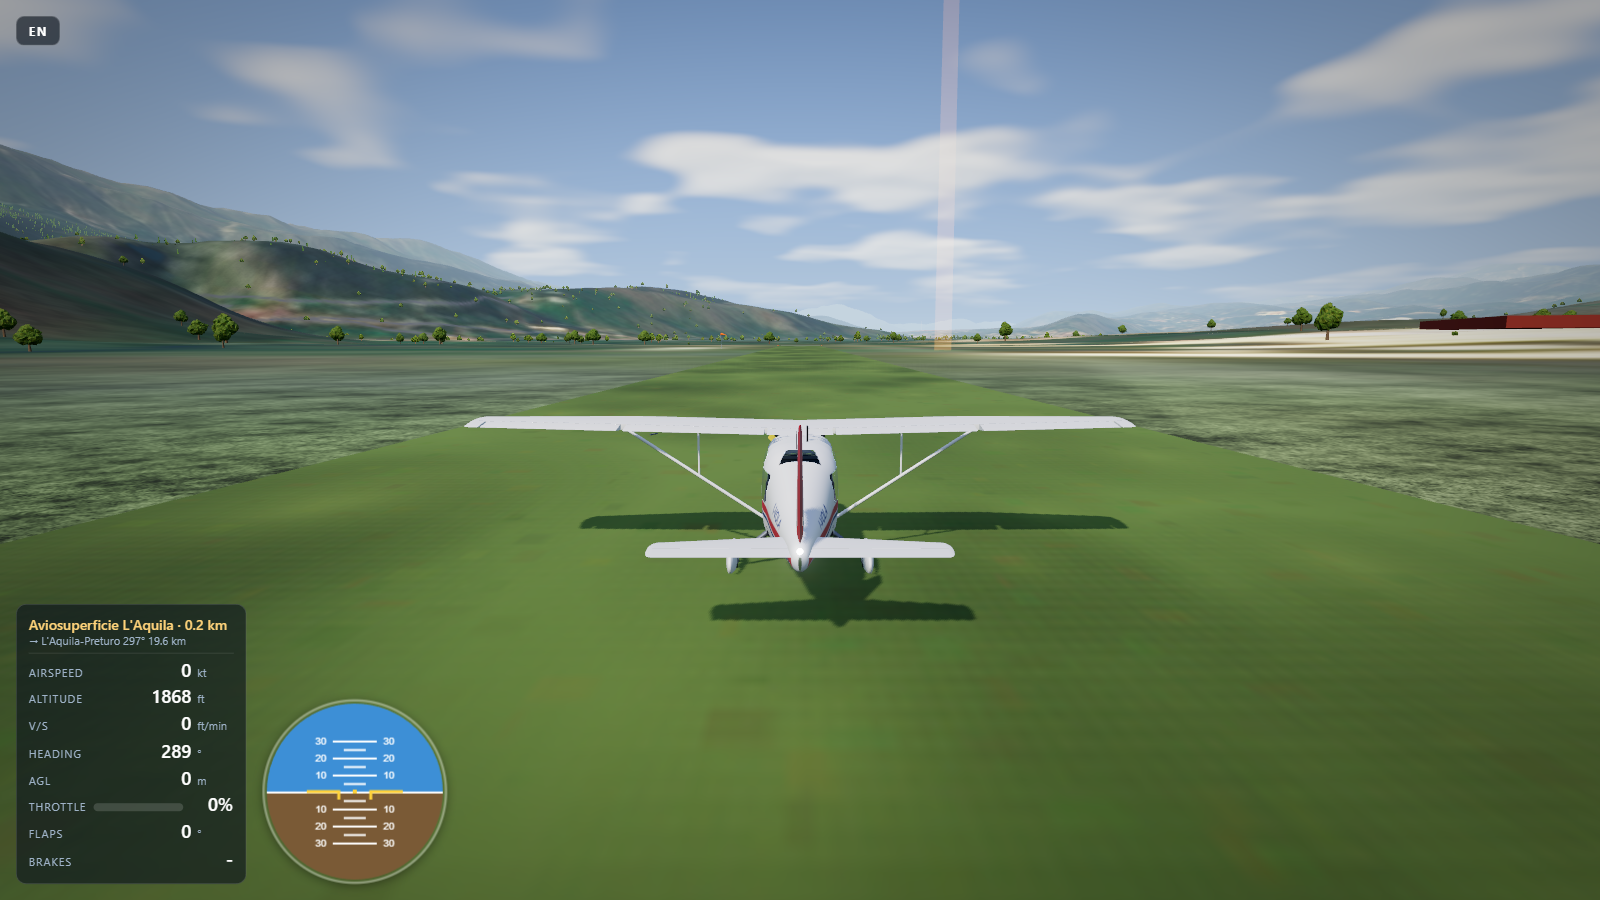
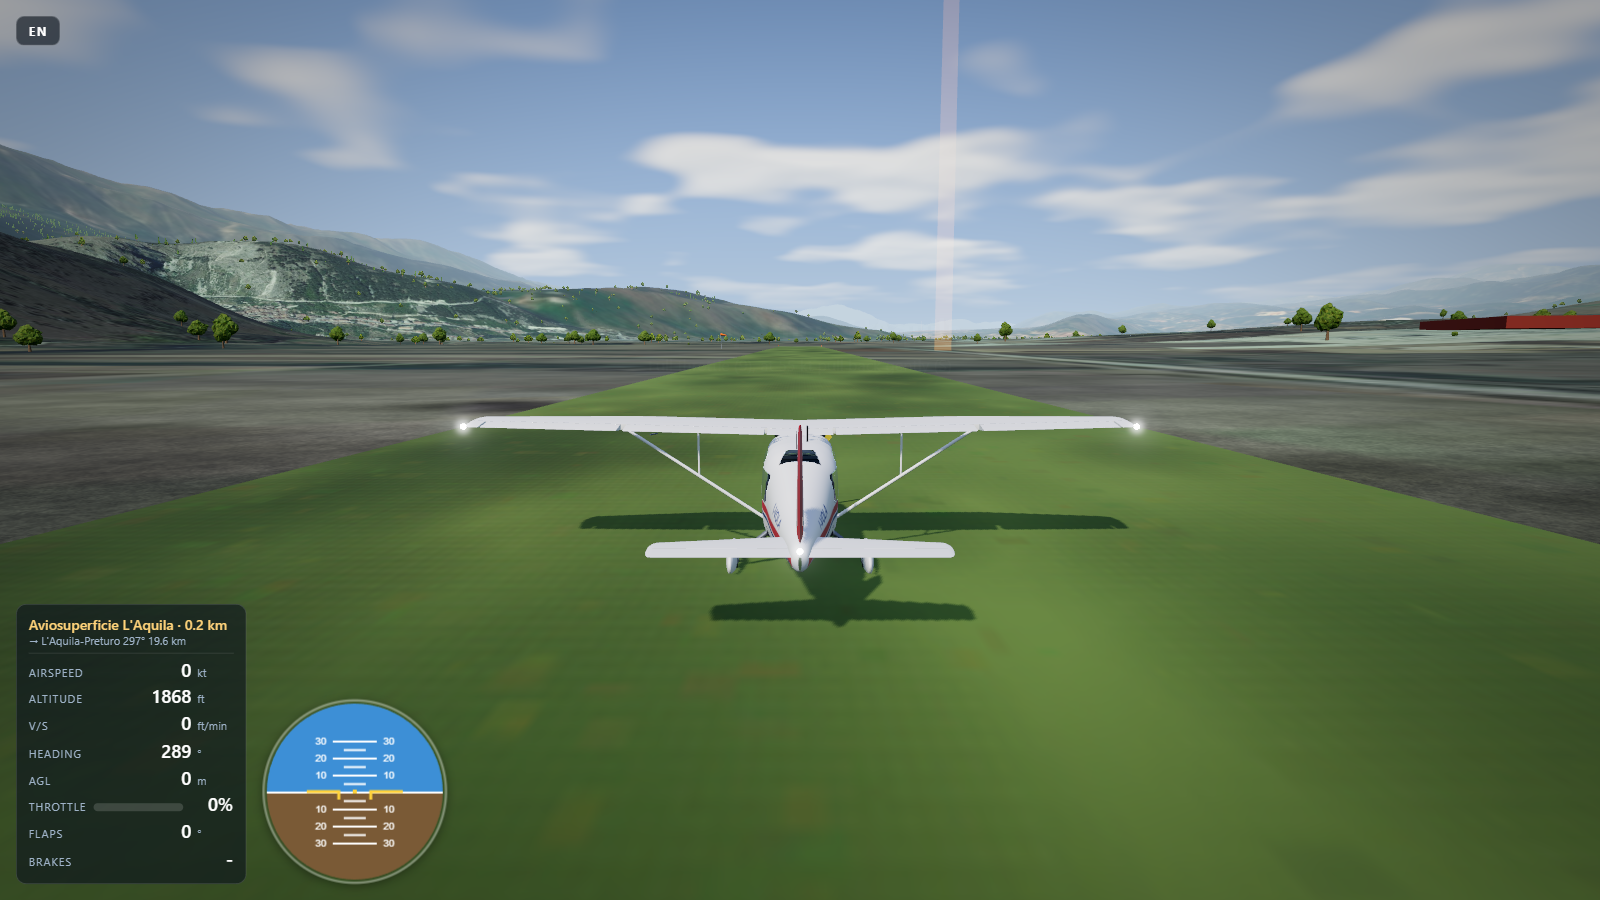
v0.7.0: ortofoto AGEA 2012 ad alta risoluzione attorno ai due aeroporti

diff --git a/src/world.js b/src/world.js
@@ -109,9 +109,9 @@ const loadImage = (name) => new Promise((res, rej) => {
 async function loadAssets(renderer) {
   const aniso = Math.min(4, renderer.capabilities.getMaxAnisotropy());
   const names = ['grass', 'meadow', 'forest', 'soil', 'dirt', 'rock', 'bark', 'asphalt'];
-  const imgs = await Promise.all([...names.map((n) => loadImage(`textures/${n}.jpg`)), loadImage('textures/grass_n.jpg'), loadImage('textures/rock_n.jpg'), loadImage('textures/leaf.jpg'), loadImage('textures/leaf_a.jpg'), loadImage('textures/needles_a.jpg'), loadImage('data/imagery.jpg')]);
+  const imgs = await Promise.all([...names.map((n) => loadImage(`textures/${n}.jpg`)), loadImage('textures/grass_n.jpg'), loadImage('textures/rock_n.jpg'), loadImage('textures/leaf.jpg'), loadImage('textures/leaf_a.jpg'), loadImage('textures/needles_a.jpg'), loadImage('data/imagery.jpg'), loadImage('data/ortho_a.jpg'), loadImage('data/ortho_b.jpg'), loadImage('data/ortho_c.jpg')]);
   const by = Object.fromEntries(names.map((n, i) => [n, imgs[i]]));
-  const [grassN, rockN, leaf, leafA, needlesA, imagery] = imgs.slice(names.length);
+  const [grassN, rockN, leaf, leafA, needlesA, imagery, orthoA, orthoB, orthoC] = imgs.slice(names.length);
   const tex = (img, srgb = true) => {
     const t = new THREE.Texture(img);
     t.wrapS = t.wrapT = THREE.RepeatWrapping;
@@ -172,6 +172,20 @@ async function loadAssets(renderer) {
   T.imagery.wrapS = T.imagery.wrapT = THREE.ClampToEdgeWrapping;
   T.imagery.anisotropy = Math.min(8, renderer.capabilities.getMaxAnisotropy());
   T.imagery.needsUpdate = true;
+
+  // ortofoto AGEA 2012 (50 cm, ricampionate a 2 m) attorno ai due aeroporti
+  const ortho = (img) => {
+    const t = new THREE.Texture(img);
+    t.colorSpace = THREE.SRGBColorSpace; t.flipY = false;
+    t.wrapS = t.wrapT = THREE.ClampToEdgeWrapping;
+    t.generateMipmaps = true; t.minFilter = THREE.LinearMipmapLinearFilter; t.magFilter = THREE.LinearFilter;
+    t.anisotropy = Math.min(8, renderer.capabilities.getMaxAnisotropy());
+    t.needsUpdate = true;
+    return t;
+  };
+  T.orthoA = ortho(orthoA);
+  T.orthoB = ortho(orthoB);
+  T.orthoC = ortho(orthoC);
 
   // classi di copertura (R bosco, G urbano, B roccia, A acqua)
   T.classes = new THREE.DataTexture(DATA.cls, DATA.CN, DATA.CN, THREE.RGBAFormat);
@@ -638,6 +652,12 @@ export async function createWorld(scene, renderer) {
     shader.uniforms.tImg = { value: assets.imagery };
     shader.uniforms.tCls = { value: assets.classes };
     shader.uniforms.tRoad = { value: assets.roads };
+    shader.uniforms.tOA = { value: assets.orthoA };
+    shader.uniforms.tOB = { value: assets.orthoB };
+    shader.uniforms.tOC = { value: assets.orthoC };
+    shader.uniforms.uOC = { value: new THREE.Vector4(-2000, -2000, 4000, 4000) };
+    shader.uniforms.uOA = { value: new THREE.Vector4(-4000, -4000, 8000, 8000) };
+    shader.uniforms.uOB = { value: new THREE.Vector4(14000, 5200, 6000, 6000) };
     shader.uniforms.uExt = { value: new THREE.Vector4(ext.x0, ext.z0, ext.x1 - ext.x0, ext.z1 - ext.z0) };
     shader.vertexShader = shader.vertexShader
       .replace('#include <common>', '#include <common>\nvarying vec3 vWPos;')
@@ -645,9 +665,9 @@ export async function createWorld(scene, renderer) {
     shader.fragmentShader = shader.fragmentShader
       .replace('#include <common>', `#include <common>
         varying vec3 vWPos;
-        uniform sampler2D t_grass, t_forest, t_rock, t_asphalt, n_grass, n_rock, tImg, tCls, tRoad, tNoise;
+        uniform sampler2D t_grass, t_forest, t_rock, t_asphalt, n_grass, n_rock, tImg, tCls, tRoad, tNoise, tOA, tOB, tOC;
         uniform vec3 a_grass, a_forest, a_rock, a_asphalt;
-        uniform vec4 uExt;
+        uniform vec4 uExt, uOA, uOB, uOC;
         float gRock, gNear, gFar;
         #if TQ >= 1
         vec3 TX(sampler2D t, vec2 p, float s, vec3 avg){
@@ -672,6 +692,25 @@ export async function createWorld(scene, renderer) {
           base *= vec3(1.08, 1.0, 0.86);                       // via il cast ciano, verdi più caldi
           base = pow(max(base, vec3(0.0)), vec3(0.72)) * 0.95;
           base = mix(base, base * base * 2.0, 0.25);          // un po' più di contrasto: via l'effetto lavato
+          // ortofoto reale ad alta risoluzione dentro le finestre degli aeroporti, sfumata ai bordi
+          float oMask = 0.0;
+          {
+            vec2 qa = (p - uOA.xy) / uOA.zw, qb = (p - uOB.xy) / uOB.zw;
+            vec2 ea = min(qa, 1.0 - qa), eb = min(qb, 1.0 - qb);
+            float wa = smoothstep(0.0, 0.06, min(ea.x, ea.y)), wb = smoothstep(0.0, 0.07, min(eb.x, eb.y));
+            vec3 oc = vec3(0.0);
+            if (wa > 0.0) oc = texture2D(tOA, qa).rgb * wa;
+            if (wb > 0.0) oc += texture2D(tOB, qb).rgb * wb;
+            oMask = min(wa + wb, 1.0);
+            vec2 qc = (p - uOC.xy) / uOC.zw, ec = min(qc, 1.0 - qc);
+            float wc = smoothstep(0.0, 0.05, min(ec.x, ec.y));
+            if (oMask > 0.0) {
+              oc /= max(wa + wb, 1e-3);
+              if (wc > 0.0) { vec3 o2 = texture2D(tOC, qc).rgb; oc = mix(oc, o2, wc); oMask = max(oMask, wc); }
+              oc = pow(oc, vec3(0.92)) * 1.03; oc = mix(oc, oc * oc * 1.7, 0.15);
+              base = mix(base, oc, oMask);
+            }
+          }
           vec4 cl = texture2D(tCls, uvw);                // bosco, urbano, roccia, acqua
           vec2 rd = texture2D(tRoad, uvw).rg;            // strade, acque
           float forest = cl.r, urban = cl.g, rockC = cl.b, water = max(cl.a, rd.g);
@@ -681,24 +720,25 @@ export async function createWorld(scene, renderer) {
           float detail = dot(TX(t_grass, p, 5.2, a_grass), LW) / max(dot(a_grass, LW), 0.02);
           if (forest > 0.02) detail = mix(detail, dot(TX(t_forest, p, 4.8, a_forest), LW) / max(dot(a_forest, LW), 0.02), clamp(forest * 1.2, 0.0, 1.0));
           float dtl = clamp((detail - 1.0) * 2.1 + 1.0, 0.3, 2.2);   // grana più marcata
-          vec3 col = base * mix(1.0, dtl, 1.0 - 0.5 * gFar);
+          float gk = 1.0 - 0.65 * oMask;   // la foto ha già il suo dettaglio: meno grana procedurale
+          vec3 col = base * mix(1.0, mix(1.0, dtl, gk), 1.0 - 0.5 * gFar);
           // microvariazione a media distanza: spezza la sfocatura dei pixel satellitari (12 m)
 // variazioni a più scale: ciuffi (~1.5 m), chiazze (~8 m), macchie (~40 m); più forti nel bosco
           mat2 R1 = mat2(0.8, -0.6, 0.6, 0.8), R2 = mat2(0.6, 0.8, -0.8, 0.6);
           vec4 n1 = texture2D(tNoise, R1 * p / 38.0), n2 = texture2D(tNoise, R2 * p / 9.0 + 0.31), n3 = texture2D(tNoise, R1 * p / 3.3 + 0.67);
-          float amp = 1.0 - 0.35 * gFar;
+          float amp = (1.0 - 0.35 * gFar) * (1.0 - 0.7 * oMask);
           col *= clamp(1.0 + amp * ((n1.r - 0.5) * 1.5 + (n2.g - 0.5) * 2.2 + (n3.b - 0.5) * 2.6 * (1.0 - 0.7 * gFar) + forest * (n2.r - 0.5) * 1.2), 0.45, 1.7);
           // roccia sulle pendenze: dalla normale interpolata
           vec3 wn = normalize(vNormal * mat3(viewMatrix));
           float slope = 1.0 - clamp(wn.y, 0.0, 1.0);
           gRock = clamp(rockC * 0.9 + smoothstep(0.38, 0.6, slope) * 0.8, 0.0, 1.0);
-          if (gRock > 0.02) col = mix(col, base * clamp(dot(TX(t_rock, p, 7.5, a_rock), LW) / max(dot(a_rock, LW), 0.02), 0.4, 2.0) * 1.05, gRock * 0.75);
+          if (gRock > 0.02) col = mix(col, base * clamp(dot(TX(t_rock, p, 7.5, a_rock), LW) / max(dot(a_rock, LW), 0.02), 0.4, 2.0) * 1.05, gRock * 0.75 * (1.0 - 0.92 * oMask));
           // zone urbane: tono neutro con grana d'asfalto
-          if (urban > 0.02) col = mix(col, base * clamp(dot(TX(t_asphalt, p, 3.0, a_asphalt), LW) / max(dot(a_asphalt, LW), 0.02), 0.4, 2.0) * 1.1, urban * 0.55);
+          if (urban > 0.02) col = mix(col, base * clamp(dot(TX(t_asphalt, p, 3.0, a_asphalt), LW) / max(dot(a_asphalt, LW), 0.02), 0.4, 2.0) * 1.1, urban * 0.55 * (1.0 - oMask));
           // strade
-          col = mix(col, vec3(0.10, 0.10, 0.11) * (0.8 + 0.5 * texture2D(t_asphalt, p / 2.0).r * 3.0), clamp(rd.r * 1.3, 0.0, 0.8));
+          col = mix(col, vec3(0.10, 0.10, 0.11) * (0.8 + 0.5 * texture2D(t_asphalt, p / 2.0).r * 3.0), clamp(rd.r * 1.3, 0.0, 0.8) * (1.0 - 0.9 * oMask));
           // acqua
-          col = mix(col, vec3(0.012, 0.045, 0.06), clamp(water * 1.3, 0.0, 0.92));
+          col = mix(col, vec3(0.012, 0.045, 0.06), clamp(water * 1.3, 0.0, 0.92) * (1.0 - 0.6 * oMask));
           // neve in quota
           col = mix(col, vec3(0.8, 0.82, 0.86), smoothstep(2300.0, 2650.0, vWPos.y) * (1.0 - smoothstep(0.35, 0.55, slope)));
           diffuseColor.rgb = col;

diff --git a/index.html b/index.html
@@ -50,7 +50,7 @@
       <tr><td>L</td><td data-i18n="kLang"></td></tr>
       <tr><td>H</td><td data-i18n="kHelp"></td></tr>
     </table>
-    <div class="attr">Terrain: Sentinel-2 cloudless by EOX (CC BY 4.0, contains modified Copernicus Sentinel data 2016) · Elevation: AWS Terrain Tiles · Map data © OpenStreetMap contributors (ODbL) · Textures: ambientCG (CC0)</div>
+    <div class="attr">Terrain: AGEA 2012 orthophotos (MASE/PCN geoportal) around the airfields · Sentinel-2 cloudless by EOX (CC BY 4.0, contains modified Copernicus Sentinel data 2016) · Elevation: AWS Terrain Tiles · Map data © OpenStreetMap contributors (ODbL) · Textures: ambientCG (CC0)</div>
     <div class="pad"><b data-i18n="padTitle">JOYSTICK / GAMEPAD</b>
       <div data-i18n="pad1"></div><div data-i18n="pad2"></div><div data-i18n="pad3"></div></div>
   </div>

diff --git a/README.md b/README.md
@@ -64,6 +64,7 @@ npm run app          # build + run the Electron app
 npm run dev          # Vite dev server (http://localhost:5173) for development
 npm run dist         # create installer + portable build in release/
 npm run fetch-data   # re-download the real terrain data (needs internet)
+node tools/fetch-ortho.mjs   # re-download the 50 cm AGEA orthophotos around the two airfields
 ```
 
 ## How to fly
@@ -116,7 +117,7 @@ Measured on a hybrid laptop at 1920 × 1080 with `node tools/perf.mjs` (NVIDIA G
 | **Window openings & livery** (`src/livery.js`) | A 2048 × 1024 texture set is computed once from signed-distance functions in fuselage space: paint, anti-aliased window alpha, glass alpha, gaskets, panel lines and the registration. The same mask cuts the exterior skin and an inset interior shell, so the cabin is a real enclosed volume you can see into and out of. |
 | **Cockpit** (`src/cockpit.js`) | Extruded dash, panel texture, seven dial canvases redrawn only when their value changes, chrome bezels and glass covers, two yokes that mirror stick input, throttle knob, seats, door trim and a cabin light. |
 | **Sky & lighting** (`src/sky.js`) | Atmospheric gradient, HDR sun disc and a cloud layer in one fragment shader; the same shader is baked to a PMREM environment map for reflections. Sun shadows are snapped to shadow-map texels to avoid shimmering. |
-| **Real data** (`tools/fetch-data.mjs`, `src/data.js`) | A one-off script downloads AWS Terrain Tiles (elevation), EOX Sentinel-2 cloudless 2016 (imagery) and Overpass/OpenStreetMap features, reprojects them to a local metric grid centred on the LIAP runway and writes `public/data/` (a 2048² height grid, a 3072² sharpened image, 1536² land-cover classes and an OSM JSON). The game reads these files at start-up. |
+| **Real data** (`tools/fetch-data.mjs`, `src/data.js`) | A one-off script downloads AWS Terrain Tiles (elevation), EOX Sentinel-2 cloudless 2016 (imagery) and Overpass/OpenStreetMap features, reprojects them to a local metric grid centred on the LIAP runway and writes `public/data/` (a 2048² height grid, a 3072² sharpened image, 1536² land-cover classes and an OSM JSON). High-resolution inset photos come from `tools/fetch-ortho.mjs` (AGEA 2012 orthophotos at 1 m/px around LIAP, 2 m/px over 8 km and around the grass airfield), blended into the terrain shader over the satellite base. The game reads these files at start-up. |
 | **Terrain** (`src/world.js`) | 24 × 24 chunks of 1.6 km on a budgeted queue (no hitches while flying), three LODs with skirts. A fragment shader takes the colour from the satellite, adds luminance grain from CC0 photo textures, a tileable noise texture at 3 scales and normal maps up close, then layers roads, water, rock on steep slopes and snow above 2,300 m. Trees are instanced per chunk: 3D models near, impostor billboards farther out. |
 | **Post-processing** (`src/postfx.js`) | EffectComposer: HDR half-float target → bloom → ACES output → SMAA or MSAA + grading. |
 | **Audio / input / i18n** | WebAudio synthesis (`src/audio.js`), keyboard + Gamepad API (`src/controls.js`), dictionary-based IT/EN (`src/i18n.js`). |
@@ -170,6 +171,6 @@ Pushing a tag such as `v0.5.0` makes GitHub Actions build the installer and atta
 
 Inspired by [web-flight-simulator](https://github.com/dimartarmizi/web-flight-simulator), reimagined for civil aviation. Built with [Three.js](https://threejs.org/), [Vite](https://vitejs.dev/) and [Electron](https://www.electronjs.org/).
 
-**Data**: satellite imagery © [EOX IT Services GmbH](https://s2maps.eu) (Sentinel-2 cloudless 2016, CC BY 4.0, contains modified Copernicus Sentinel data), elevation from [AWS Terrain Tiles](https://registry.opendata.aws/terrain-tiles/), map data © [OpenStreetMap contributors](https://www.openstreetmap.org/copyright) (ODbL). Land-cover classes are an automatic estimate and will not match reality everywhere. See `public/data/CREDITS.txt`.
+**Data**: orthophotos © AGEA 2012 (50 cm), served by the Italian Ministry of Environment national geoportal WMS (no usage restrictions declared; `tools/fetch-ortho.mjs`), satellite imagery © [EOX IT Services GmbH](https://s2maps.eu) (Sentinel-2 cloudless 2016, CC BY 4.0, contains modified Copernicus Sentinel data), elevation from [AWS Terrain Tiles](https://registry.opendata.aws/terrain-tiles/), map data © [OpenStreetMap contributors](https://www.openstreetmap.org/copyright) (ODbL). Land-cover classes are an automatic estimate and will not match reality everywhere. See `public/data/CREDITS.txt`.
 
 Terrain, tree and runway textures are CC0 scans from [ambientCG](https://ambientcg.com): Grass 004, Grass 001, Ground 037, Ground 106, Ground 111, Rock 051, Bark 014, Leaf 001, Pine Needles 001 and Asphalt 031 (see `public/textures/CREDITS.txt`).

diff --git a/README.it.md b/README.it.md
@@ -170,6 +170,6 @@ Pubblicando un tag come `v0.5.0`, GitHub Actions compila l'installer e lo allega
 
 Ispirato a [web-flight-simulator](https://github.com/dimartarmizi/web-flight-simulator), reinterpretato per l'aviazione civile. Realizzato con [Three.js](https://threejs.org/), [Vite](https://vitejs.dev/) ed [Electron](https://www.electronjs.org/).
 
-**Dati**: immagini satellitari © [EOX IT Services GmbH](https://s2maps.eu) (Sentinel-2 cloudless 2016, CC BY 4.0, contiene dati Copernicus Sentinel modificati), quote da [AWS Terrain Tiles](https://registry.opendata.aws/terrain-tiles/), dati cartografici © [contributori di OpenStreetMap](https://www.openstreetmap.org/copyright) (ODbL). Le classi di copertura sono una stima automatica e non coincidono ovunque con la realtà. Vedi `public/data/CREDITS.txt`.
+**Dati**: ortofoto © AGEA 2012 (50 cm), dal WMS del Geoportale Nazionale del Ministero dell'Ambiente (nessuna condizione d'uso dichiarata; `tools/fetch-ortho.mjs`), immagini satellitari © [EOX IT Services GmbH](https://s2maps.eu) (Sentinel-2 cloudless 2016, CC BY 4.0, contiene dati Copernicus Sentinel modificati), quote da [AWS Terrain Tiles](https://registry.opendata.aws/terrain-tiles/), dati cartografici © [contributori di OpenStreetMap](https://www.openstreetmap.org/copyright) (ODbL). Le classi di copertura sono una stima automatica e non coincidono ovunque con la realtà. Vedi `public/data/CREDITS.txt`.
 
 Le texture di terreno, alberi e piste sono scansioni CC0 di [ambientCG](https://ambientcg.com): Grass 004, Grass 001, Ground 037, Ground 106, Ground 111, Rock 051, Bark 014, Leaf 001, Pine Needles 001 e Asphalt 031 (vedi `public/textures/CREDITS.txt`).
